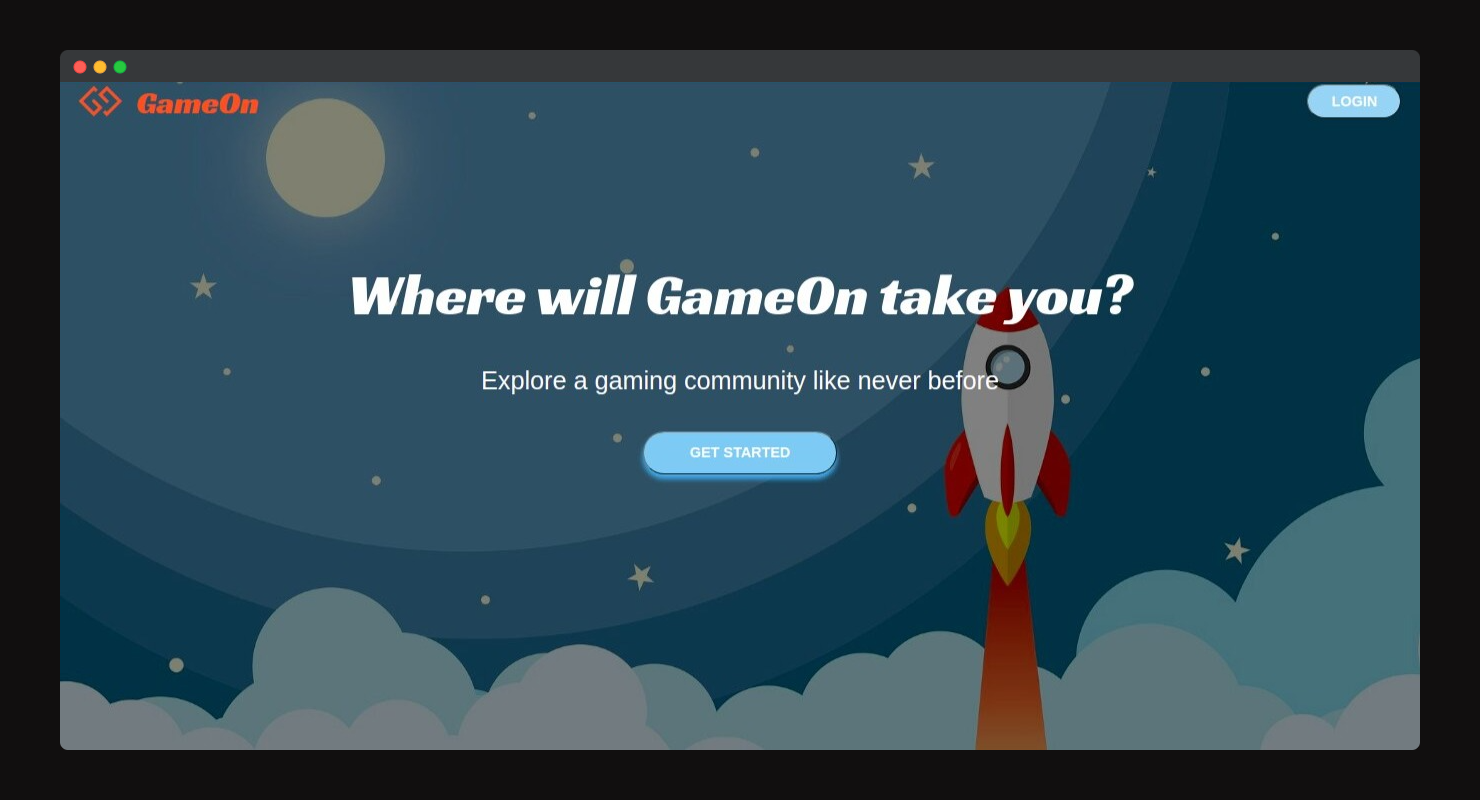
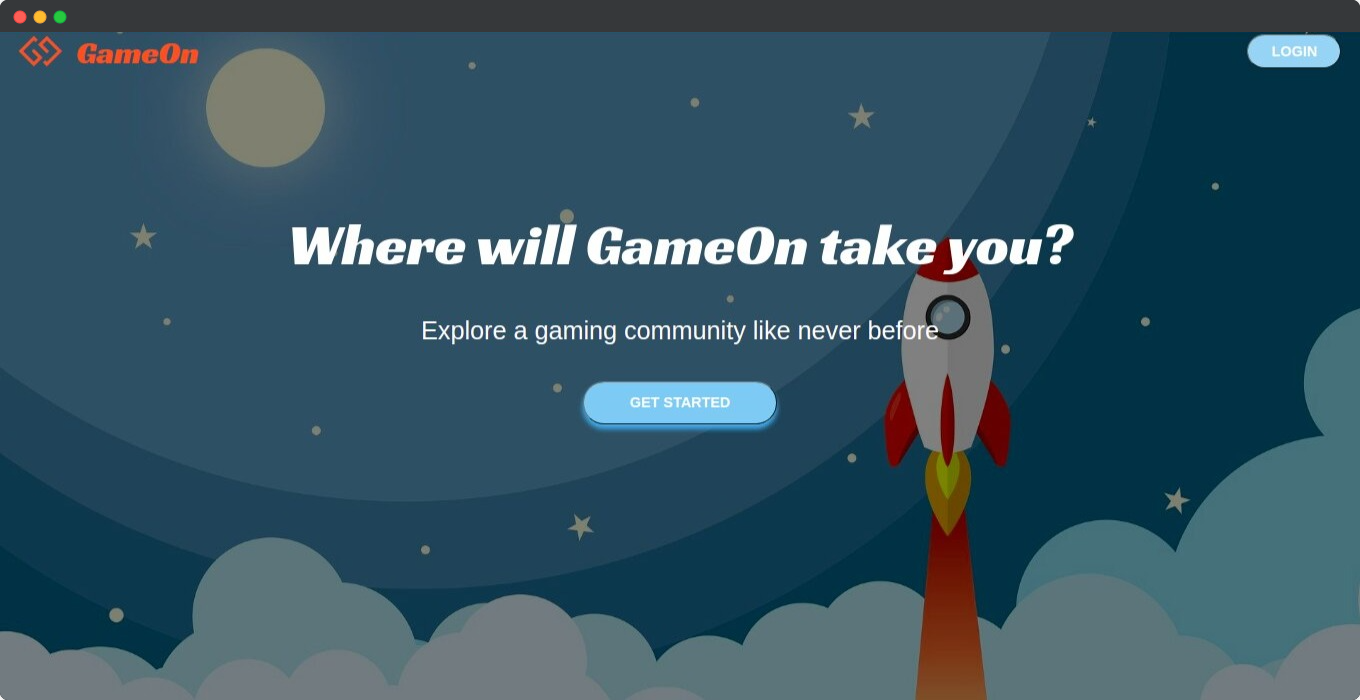
style updates

diff --git a/index.html b/index.html
@@ -6,7 +6,7 @@
 -->
 <html>
 	<head>
-		<title>Stellar Portfolio</title>
+		<title>Sharrar SWE </title>
 		<meta charset="utf-8" />
 		<meta name="viewport" content="width=device-width, initial-scale=1, user-scalable=no" />
 		<link rel="stylesheet" href="assets/css/main.css" />
@@ -47,10 +47,10 @@
 										</header>
 										<p>Cryptocurrency portfolio tracker with never before seen features to make investing into crypto as simple as possible.</p>
 										<ul class="actions">
-											<li><a href="generic.html" class="button">Learn More</a></li>
+											<li><a href="https://github.com/sharrarW/CoinPortfolio-App" target="_blank" class="button">See More</a></li>
 										</ul>
 									</div>
-									<span class="image"><img src="images/coingain_mockups.jpg" alt="" /></span>
+									<span class="image"><div id="coin"><img src="images/coingain_mockup.png" alt="" /> </div></span>
 								</div>
 							</section>
 							
@@ -63,7 +63,7 @@
 									</header>
 									<p>This project, built by a team of 3, is a web application that allows users to find friends based on similar gaming interests.</p>
 									<ul class="actions">
-										<li><a href="generic.html" class="button">Learn More</a></li>
+										<li><a href="https://github.com/Land-Sharks/GameOn" target="_blank" class="button">Learn More</a></li>
 									</ul>
 								</div>
 								<span class="image"><img src="images/gameon_mockup.png" alt="" /></span>
@@ -93,33 +93,33 @@
 								</header>
 								<ul class="features">
 									<li>
-										<span class="icon solid major style1 fa-music"></span>
+										<span class="music"><img src= "images/interests_music.png" alt = ""></span>
 										<h3>Music</h3>
 										<p>If I had to quantify it, music probably makes me 150% more productive with whatever I'm doing.
 											Rap, Pop, and Rock make up my favorite genres. 
 										</p>
 									</li>
 									<li>
-										<span class="icon major style3 fa-movie-o"></span>
-										<h3>Movies</h3>
-										<p>Sed lorem amet ipsum dolor et amet nullam consequat a feugiat consequat tempus veroeros sed consequat.</p>
+										<span class="btc"><img src="images/interests_crypto.png" alt="" /></span>
+										<h3>Cryptocurrency</h3>
+										<p>This is a no-brinaer if you see my featured project! I was introduced to the world of crypto in 2017 and haven't looked back since.</p>
 									</li>
 									<li>
-										<span class="icon major style5 fa-basketball-ball"></span>
+										<span class="basketball"><img src= "images/interests_nba.png" alt = ""></span>
 										<h3>Basketball</h3>
 										<p>Tell me your top 5 players and we can argue about it.</p>
 									</li>
 								</ul>
 								<footer class="major">
 									<ul class="actions special">
-										<li><a href="generic.html" class="button">Learn More</a></li>
+										<!-- <li><a href="generic.html" class="button">Learn More</a></li> -->
 									</ul>
 								</footer>
 							</section>
 
 
 						<!-- Get Started -->
-							<section id="cta" class="main special">
+							<!-- <section id="cta" class="main special">
 								<header class="major">
 									<h2>Congue imperdiet</h2>
 									<p>Donec imperdiet consequat consequat. Suspendisse feugiat congue<br />
@@ -131,7 +131,7 @@
 										<li><a href="generic.html" class="button">Learn More</a></li>
 									</ul>
 								</footer>
-							</section>
+							</section> -->
 
 					</div>
 

diff --git a/assets/css/main.css b/assets/css/main.css
@@ -99,11 +99,11 @@ input, select, textarea {
 	}
 
 	body {
-		background-color: #09192f;
-		background-image: url("images/overlay.png"), -moz-linear-gradient(45deg, #e37682 15%, #5f4d93 85%);
-		background-image: url("images/overlay.png"), -webkit-linear-gradient(45deg, #e37682 15%, #5f4d93 85%);
-		background-image: url("images/overlay.png"), -ms-linear-gradient(45deg, #e37682 15%, #5f4d93 85%);
-		background-image: url("images/overlay.png"), linear-gradient(45deg, #09192f 15%, #09192f 85%);
+		background-color: #161616;
+		/* background-image: url("images/overlay.png"), -moz-linear-gradient(45deg, #e37682 15%, #5f4d93 85%); */
+		/* background-image: url("images/overlay.png"), -webkit-linear-gradient(45deg, #e37682 15%, #5f4d93 85%); */
+		background-image: url("images/overlay.png"), -ms-linear-gradient(45deg, #09192f 15%, #161616 85%);
+		background-image: url("images/overlay.png"), linear-gradient(55deg, #09192f 5%, #161616 95%);
 	}
 
 		body.is-preload *, body.is-preload *:before, body.is-preload *:after {
@@ -3075,10 +3075,11 @@ input, select, textarea {
 	#header {
 		padding: 5em 5em 1em 5em ;
 		text-align: center;
+		-webkit-font-smoothing: antialiased;
 	}
 
 		#header h1 {
-			margin: 0 0 0.25em 0;
+			margin: 0 0 .25em 0;
 		}
 
 		#header p {
@@ -3092,6 +3093,7 @@ input, select, textarea {
 
 			#header.alt h1 {
 				font-size: 3.25em;
+				
 			}
 
 			#header.alt > * {
@@ -3236,7 +3238,8 @@ input, select, textarea {
 		}
 
 		#nav a:hover {
-			color: #636363;
+			/* color: #00ffdd; */
+			text-shadow: 0 0 10px #00ffdd;
 		}
 
 		#nav strong, #nav b {
@@ -3296,13 +3299,12 @@ input, select, textarea {
 				}
 
 					#nav ul li a:hover {
-						background-color: #112240;
+						/* background-color: #112240; */
+						/* text-shadow: 0 0 5px #5ef3da; */
 					}
 
 					#nav ul li a.active {
 						background-color: #3fa29667;
-						
-						box-shadow: none;
 					}
 
 		/* #nav.alt {
@@ -3334,11 +3336,15 @@ input, select, textarea {
 
 		}
 
+		#coin  {
+		
+
+		}
+
 /* Main */
 
 	#main {
 		/* Boxes bg color*/
-		background-color: #112240;
 		color: #636363;
 		border-radius: 0.25em;
 		border-color: #7ec3ee;
@@ -3551,11 +3557,11 @@ input, select, textarea {
 		}
 
 		#main header.major h2:after {
-			background-color: #dddddd;
-			background-image: -moz-linear-gradient(90deg, #efa8b0, #a89cc8, #8cc9f0);
+			background-color: #6273bde1;
+			/* background-image: -moz-linear-gradient(90deg, #efa8b0, #a89cc8, #8cc9f0);
 			background-image: -webkit-linear-gradient(90deg, #efa8b0, #a89cc8, #8cc9f0);
 			background-image: -ms-linear-gradient(90deg, #efa8b0, #a89cc8, #8cc9f0);
-			background-image: linear-gradient(90deg, #efa8b0, #a89cc8, #8cc9f0);
+			background-image: linear-gradient(90deg, #efa8b0, #a89cc8, #09a1ff); */
 		}
 
 		#main table tbody tr {
